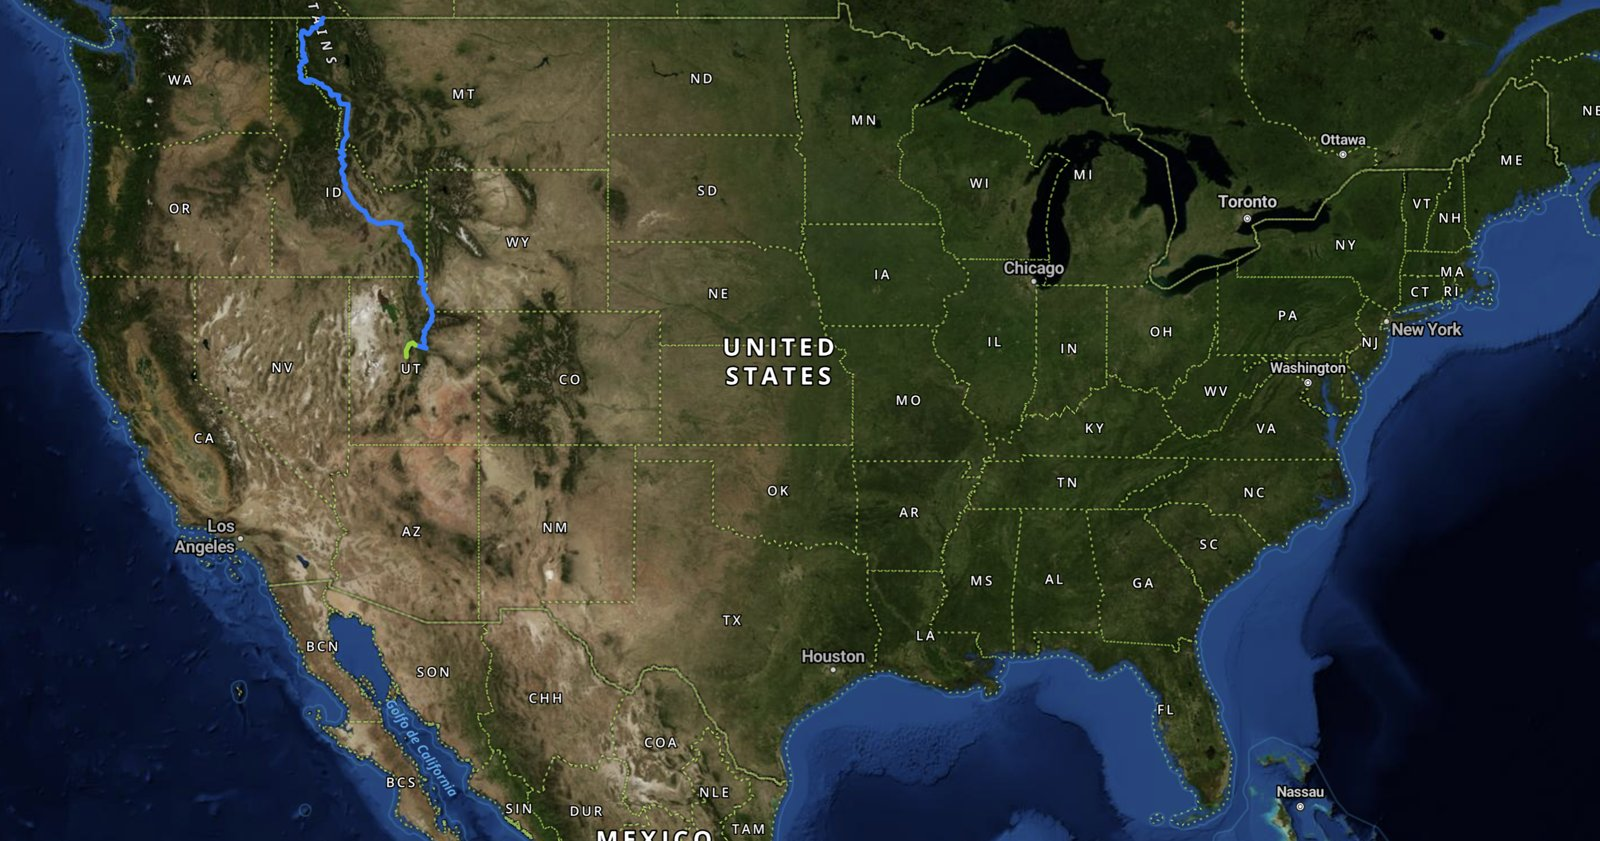
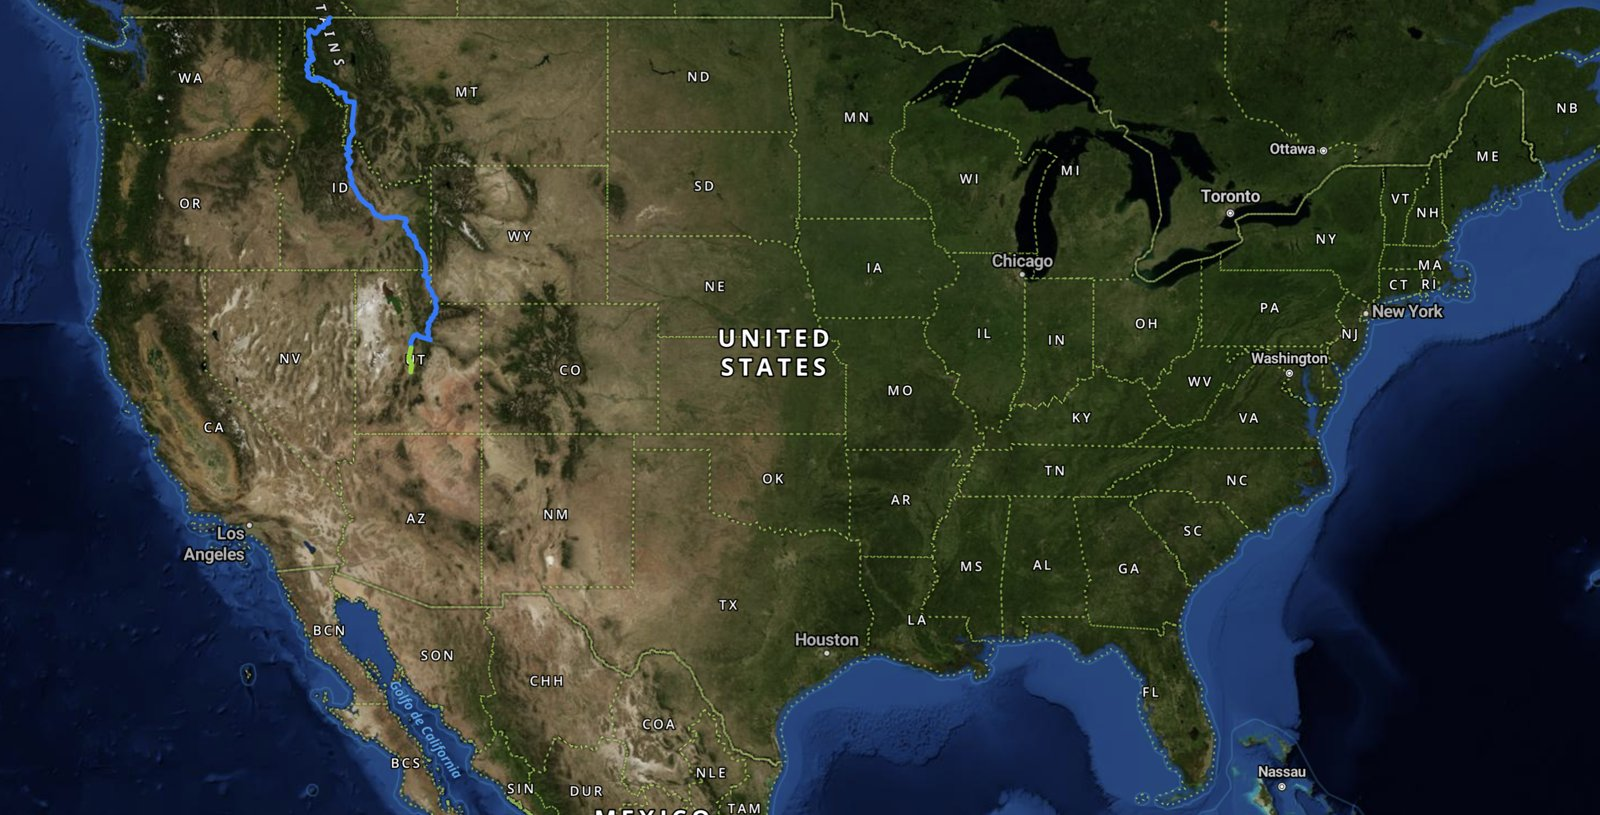
Progress map through day 24

diff --git a/rick/data.js b/rick/data.js
@@ -132,7 +132,7 @@ const LOCATION = {lat:38.943351, lng:-111.855344, town:"Salina", state:"UT", lab
 const STATUS = "Rick made Salina. Day 24 was 54 easy miles down the valley from Nephi with two riding friends for company, ending in a group camp at Butch Cassidy Campground with ribs and a campfire. Salina is where he planned to pick the route back up after going around Skyline Drive, so from here he heads south on the Western Wildlands line toward Kanab. Segment 6 will be redrawn to match his bypass, so its numbers here are rough until then.";
 // Cover photo for the top of the tracker page (file name without .jpg, from rick/photos/). Use a wide crop; the bottom third fades into the page.
 // Zoomed-out map of the whole West with Rick's track so far (screenshot from the Windy/onX view). Re-shoot every few days, overwrite the same file, update asOf.
-const PROGRESS_MAP = {file:"wwr-progress-map", asOf:"Sept 28, 2026, end of day 23", caption:"Blue and green is Rick's track so far, Roosville to Nephi in central Utah, with day 23 in green. The route runs on south through Utah and Arizona to the Mexican border at Sierra Vista."};
+const PROGRESS_MAP = {file:"wwr-progress-map", asOf:"Sept 29, 2026, end of day 24", caption:"Blue and green is Rick's track so far, Roosville to Salina in central Utah, with day 24 in green. The route runs on south through Utah and Arizona to the Mexican border at Sierra Vista."};
 const COVER = "2026-09-06-roosville-start-cover";
 
 // Photos: file names live in rick/photos/. Add the full-size jpg plus a -thumb.jpg. Newest first.
@@ -243,5 +243,5 @@ const PHOTOS = [
   {file:"2026-09-06-koocanusa-bridge", date:"2026-09-06", time:"13:36", caption:"Day 1. The Lake Koocanusa bridge from the road above, the longest bridge in Montana, over the Kootenai River backed up behind Libby Dam."},
   {file:"2026-09-06-roosville-start", date:"2026-09-06", time:"10:02", caption:"Day 1. Rick and the loaded bike at the Roosville border crossing, ready to roll south."},
 ];
-const LAST_UPDATED = "Sept 30, 2026, 9:20 am MT";
+const LAST_UPDATED = "Sept 30, 2026, 9:40 am MT";
 // ===== END DATA =====
